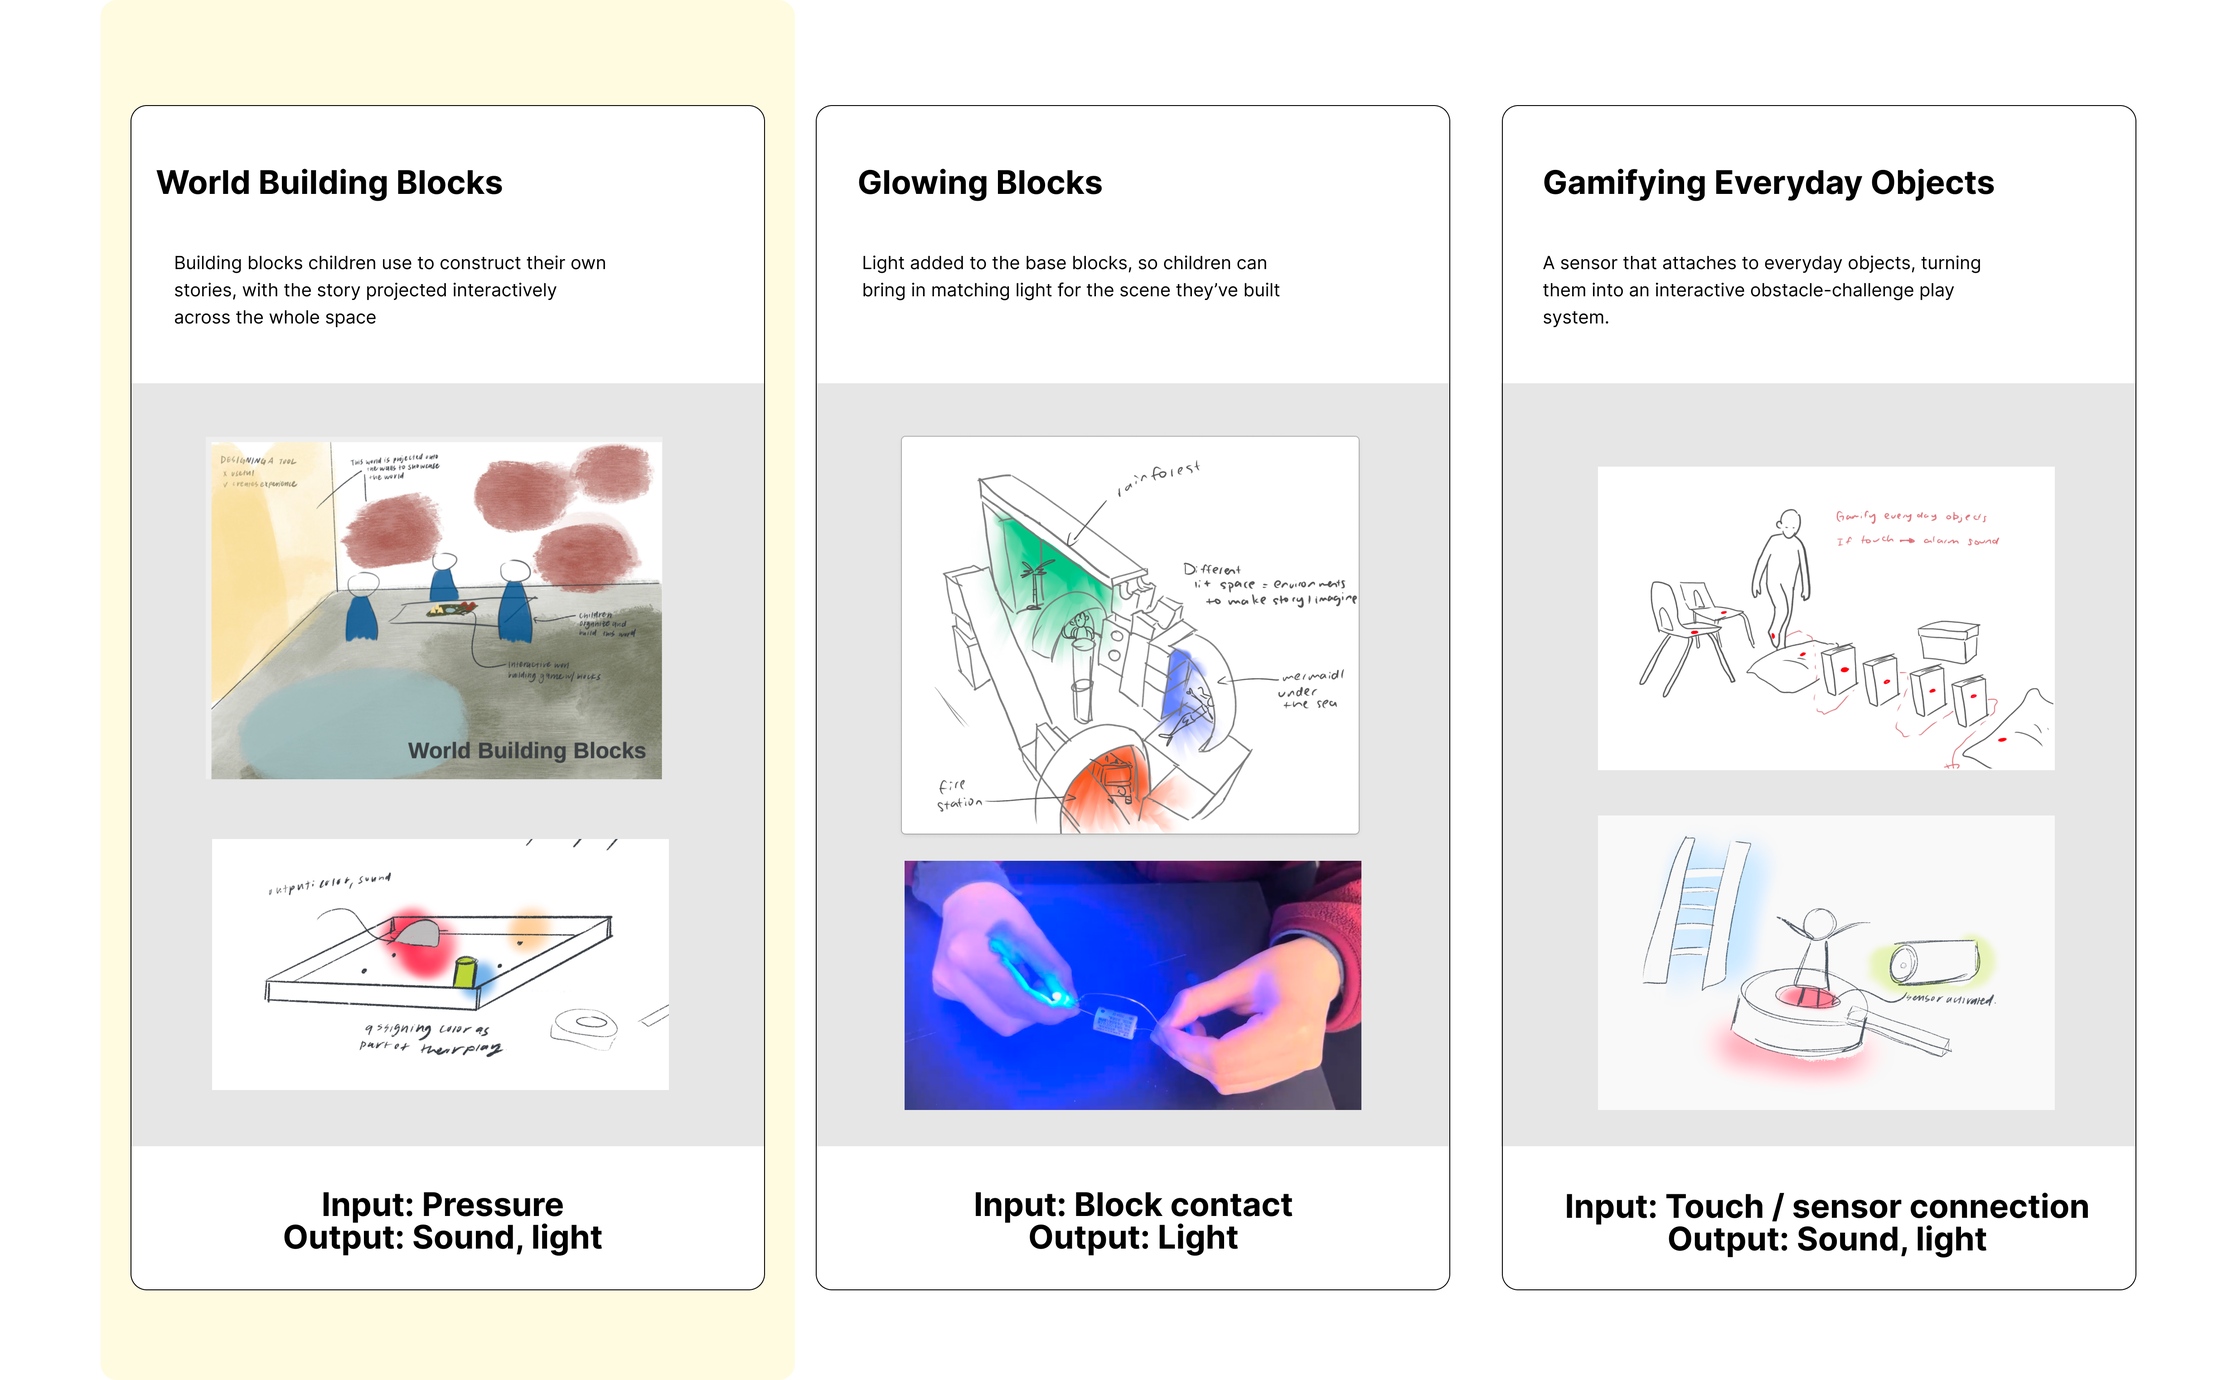
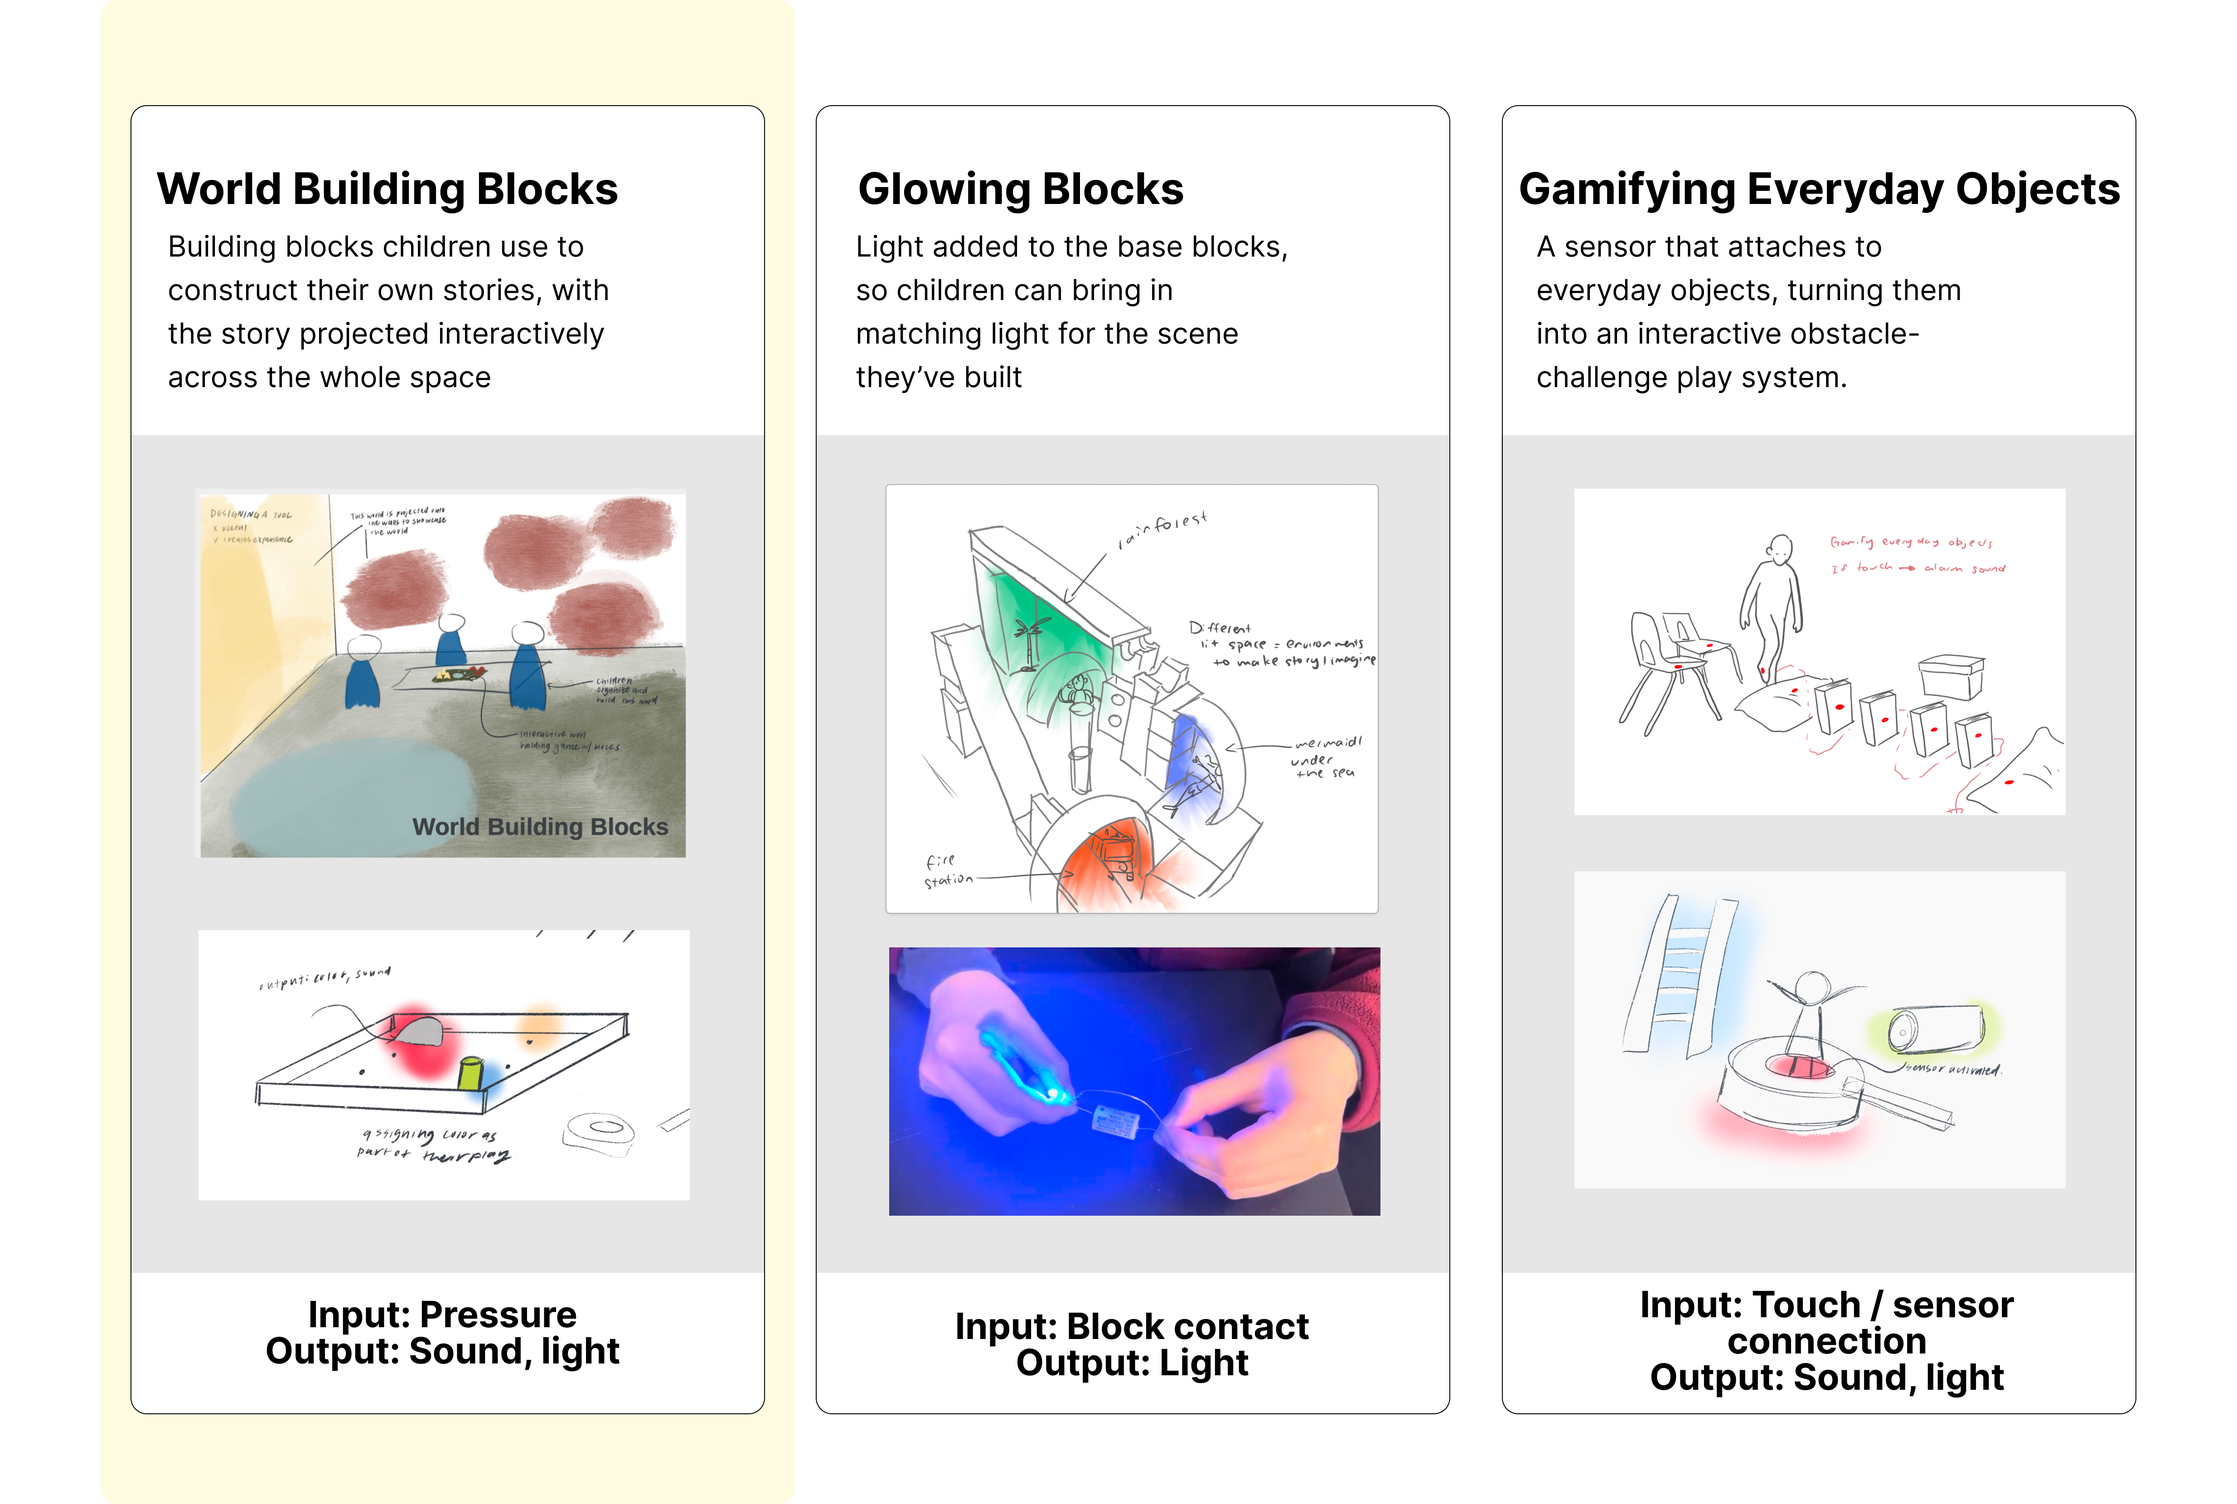
11/19 larger font

Changed region(s): [[0.0624, 0.0624, 0.9672, 0.9668], [0.7176, 0.5926, 0.9048, 0.7797], [0.8424, 0.3743, 0.8736, 0.4054]]

diff --git a/styles.css b/styles.css
@@ -11,6 +11,10 @@
     --header-height: 80px;
 }
 
+html {
+    font-size: clamp(17px, 15px + 0.25vw, 20px);
+}
+
 body {
     margin: 0;
     font-family: 'Schibsted Grotesk', sans-serif;
@@ -173,7 +177,7 @@ body {
 }
 
 .bio-text {
-    font-size: 20px;
+    font-size: 1.25rem;
     line-height: 1.38;
     font-weight: 700;
     margin: 0;
@@ -196,14 +200,14 @@ body {
 .filtered-images-container {
     max-width: 1200px;
     width: 100%;
-    height: 500px;
+    height: 580px;
     margin: 0 auto;
     position: relative;
 }
 
 @media (max-width: 1024px) {
     .filtered-images-container {
-        height: 540px;
+        height: 620px;
         max-width: 100%;
     }
     
@@ -218,7 +222,7 @@ body {
 
 @media (max-width: 768px) {
     .filtered-images-container {
-        height: 480px;
+        height: 560px;
     }
     
     /* 1 Bamboo Lamp, 2 9-5, 3 Timer Speaker, 4 Easy SPAM, 5 Camera Bag, 6 Wonder Mat */
@@ -247,7 +251,7 @@ body {
    Order matches filtered-image-item children in index.html */
 /* Child 1: lamp.jpg - Bamboo Lamp (bamboolamp) */
 .filtered-image-item:nth-child(1) {
-    top: 12%;
+    top: 14%;
     left: 40%;
     width: 14%;
 }
@@ -287,6 +291,55 @@ body {
     width: 20%;
 }
 
+/* Archive covers (children 7–14) */
+.filtered-image-item:nth-child(7) {
+    bottom: 8%;
+    left: 54%;
+    width: 12%;
+}
+
+.filtered-image-item:nth-child(8) {
+    top: 0%;
+    left: 36%;
+    width: 10%;
+}
+
+.filtered-image-item:nth-child(9) {
+    bottom: 48%;
+    left: -4%;
+    width: 10%;
+}
+
+.filtered-image-item:nth-child(10) {
+    top: 30%;
+    right: 13%;
+    width: 11%;
+}
+
+.filtered-image-item:nth-child(11) {
+    bottom: 22%;
+    left: 35%;
+    width: 12%;
+}
+
+.filtered-image-item:nth-child(12) {
+    top: 12%;
+    right: 30%;
+    width: 10%;
+}
+
+.filtered-image-item:nth-child(13) {
+    top: 33%;
+    left: 18%;
+    width: 12%;
+}
+
+.filtered-image-item:nth-child(14) {
+    top: 33%;
+    right: -5%;
+    width: 11%;
+}
+
 .filtered-image-item.visible {
     visibility: visible;
     opacity: 1;
@@ -313,7 +366,7 @@ body {
 /* FILTER SECTION */
 .filter-section {
     grid-column: span 12;
-    padding: 20px var(--spacing-container) 20px var(--spacing-container);
+    padding: 20px var(--spacing-container);
     border-bottom: 1px solid var(--color-border);
     position: relative;
     z-index: 2;
@@ -321,16 +374,18 @@ body {
 }
 
 .filter-sidebar {
-    max-width: 1200px;
+    width: 100%;
+    max-width: min(1280px, 100%);
     margin: 0 auto;
     display: flex;
     flex-direction: row;
-    flex-wrap: wrap;
+    flex-wrap: nowrap;
     align-items: center;
-    gap: 12px;
+    gap: 16px;
 }
 
 .filter-title {
+    flex-shrink: 0;
     font-size: 0.85rem;
     font-weight: 600;
     margin: 0;
@@ -341,12 +396,18 @@ body {
 
 .keyword-list {
     display: flex;
-    flex-wrap: wrap;
+    flex-wrap: nowrap;
     gap: 8px;
-    flex: 1;
+    flex: 1 1 auto;
+    min-width: 0;
+    overflow-x: auto;
+    overflow-y: hidden;
+    scrollbar-width: thin;
+    -webkit-overflow-scrolling: touch;
 }
 
 .keyword-btn {
+    flex-shrink: 0;
     padding: 6px 12px;
     border: 1px solid var(--color-border);
     background: transparent;
@@ -370,6 +431,7 @@ body {
 }
 
 .clear-filter-btn {
+    flex-shrink: 0;
     padding: 6px 12px;
     border: 1px solid var(--color-border);
     background: transparent;
@@ -484,7 +546,7 @@ body {
 }
 
 .project-title {
-    font-size: 48px;
+    font-size: 3rem;
     font-weight: 700;
     margin: 0 0 10px 0;
     line-height: 1.22;
@@ -953,7 +1015,7 @@ body {
 }
 
 .info-title {
-    font-size: 48px;
+    font-size: 3rem;
     font-weight: 700;
     margin: 0 0 60px 0;
     line-height: 1.1;
@@ -1001,7 +1063,7 @@ body {
     }
     
     .bio-text {
-        font-size: 32px;
+        font-size: 2rem;
     }
     
     .filtered-images-section {
@@ -1045,7 +1107,7 @@ body {
     }
     
     .project-title {
-        font-size: 32px;
+        font-size: 2rem;
     }
     
     .project-description {
@@ -1061,7 +1123,7 @@ body {
     }
     
     .info-title {
-        font-size: 32px;
+        font-size: 2rem;
     }
     
     .info-text {
@@ -1075,7 +1137,7 @@ body {
 
 @media (max-width: 480px) {
     .bio-text {
-        font-size: 24px;
+        font-size: 1.5rem;
     }
     
     .logo {
@@ -1094,7 +1156,7 @@ body {
     }
     
     .project-title {
-        font-size: 24px;
+        font-size: 1.5rem;
     }
     
     .project-description {
@@ -1102,7 +1164,7 @@ body {
     }
     
     .info-title {
-        font-size: 24px;
+        font-size: 1.5rem;
     }
     
     .info-text {

diff --git a/archive.html b/archive.html
@@ -42,14 +42,14 @@
                     </div>
                 </div>
 
-                <div class="project-card" data-project="readingapp" aria-label="View Reading App">
+                <div class="project-card" data-project="readingapp" data-keywords="Interactive,Digital experience" aria-label="View Reading App">
                     <div class="image-placeholder">
                         <img src="img/readingapp/appp.png" alt="Reading App">
                     </div>
                     <div class="project-meta">
                         <h3 data-zh="阅读应用">Reading App</h3>
                         <p data-zh="2025年夏季">Summer 2025</p>
-                        <div class="tags" data-zh="UI设计 | 原型设计">UI Design | Prototyping</div>
+                        <div class="tags" data-zh="交互式，数字体验">Interactive, Digital experience</div>
                     </div>
                 </div>
 
@@ -75,25 +75,25 @@
                     </div>
                 </div>
 
-                <div class="project-card" data-project="birdlamp" data-keywords="Material-driven,Fabrication and Craft" aria-label="View Bird Lamp">
+                <div class="project-card" data-project="birdlamp" data-keywords="Material-driven,Fabrication and Craft,Play" aria-label="View Bird Lamp">
                     <div class="image-placeholder">
                         <img src="img/birdlamp/birdlamp.png" alt="Bird Lamp">
                     </div>
                     <div class="project-meta">
                         <h3 data-zh="鸟灯">Bird Lamp</h3>
                         <p data-zh="2024年秋季">Fall 2024</p>
-                        <div class="tags" data-zh="材料驱动，制作与工艺">Material-driven, Fabrication and Craft</div>
+                        <div class="tags" data-zh="材料驱动，制作与工艺，游戏">Material-driven, Fabrication and Craft, Play</div>
                     </div>
                 </div>
 
-                <div class="project-card" data-project="officescene" data-keywords="Play,Interactive,Fabrication and Craft" aria-label="View Office Scene">
+                <div class="project-card" data-project="officescene" data-keywords="Play,Digital experience" aria-label="View Office Scene">
                     <div class="image-placeholder">
                         <img src="img/office/office 4.png" alt="Office Scene">
                     </div>
                     <div class="project-meta">
                         <h3 data-zh="办公场景">Office Scene</h3>
                         <p data-zh="2025年秋季">Fall 2025</p>
-                        <div class="tags" data-zh="游戏，交互式，制作与工艺">Play, Interactive, Fabrication and Craft</div>
+                        <div class="tags" data-zh="游戏，数字体验">Play, Digital experience</div>
                     </div>
                 </div>
 
@@ -108,14 +108,14 @@
                     </div>
                 </div>
 
-                <div class="project-card" data-project="animation" data-keywords="Digital experience" aria-label="View Animation">
+                <div class="project-card" data-project="animation" data-keywords="Fabrication and Craft" aria-label="View Animation">
                     <div class="image-placeholder">
                         <img src="img/animation/animation.png" alt="Animation">
                     </div>
                     <div class="project-meta">
                         <h3 data-zh="动画">Animation</h3>
                         <p data-zh="2023年秋季 – 2023年春季">Fall 2023 – Spring 2023</p>
-                        <div class="tags" data-zh="数字体验">Digital experience</div>
+                        <div class="tags" data-zh="制作与工艺">Fabrication and Craft</div>
                     </div>
                 </div>
             </div>

diff --git a/index.html b/index.html
@@ -54,6 +54,30 @@
                     <div class="filtered-image-item" data-project="mat" data-keywords="Human-Centered,Interactive,Digital experience,Fabrication and Craft,Play">
                         <img src="img/mat/mat.jpg" alt="Wonder Mat">
                     </div>
+                    <div class="filtered-image-item" data-project="headphone" data-keywords="Redesign,Edible?">
+                        <img src="img/headphone/headphone.png" alt="Spagehetti Headphone">
+                    </div>
+                    <div class="filtered-image-item" data-project="readingapp" data-keywords="Interactive,Digital experience">
+                        <img src="img/readingapp/appp.png" alt="Reading App">
+                    </div>
+                    <div class="filtered-image-item" data-project="puzzle" data-keywords="Play,Material-driven,Human-Centered,Interactive,Fabrication and Craft">
+                        <img src="img/puzzle/puzz.png" alt="Textured Animal Puzzle">
+                    </div>
+                    <div class="filtered-image-item" data-project="overthinker" data-keywords="Play,Interactive,Digital experience">
+                        <img src="img/overthinker/ov.png" alt="Overthinker Simulation Game">
+                    </div>
+                    <div class="filtered-image-item" data-project="birdlamp" data-keywords="Material-driven,Fabrication and Craft,Play">
+                        <img src="img/birdlamp/birdlamp.png" alt="Bird Lamp">
+                    </div>
+                    <div class="filtered-image-item" data-project="officescene" data-keywords="Play,Digital experience">
+                        <img src="img/office/office 4.png" alt="Office Scene">
+                    </div>
+                    <div class="filtered-image-item" data-project="builtworks" data-keywords="Material-driven,Fabrication and Craft">
+                        <img src="img/build/build1.png" alt="Built Works">
+                    </div>
+                    <div class="filtered-image-item" data-project="animation" data-keywords="Fabrication and Craft">
+                        <img src="img/animation/animation.png" alt="Animation">
+                    </div>
                 </div>
             </section>
 

diff --git a/projects/readingapp.html b/projects/readingapp.html
@@ -31,7 +31,7 @@
             <div class="project-content">
                 <h2 class="project-title" data-zh="阅读应用">Reading App</h2>
                 <p class="project-year" data-zh="2025年夏季">Summer 2025</p>
-                <div class="project-tags" data-zh="UI设计 | 原型设计">UI Design | Prototyping</div>
+                <div class="project-tags" data-zh="交互式，数字体验">Interactive, Digital experience</div>
                 <div class="project-description">
                     <p><strong data-zh="挑战：">Challenge:</strong><br>
                     <span data-zh="重新设计一个现有的儿童图书平台（Hansen Books），该平台具有视觉平淡、过度白色的界面，难以导航。尽管该应用程序提供了有价值的课程包，教父母如何与孩子一起阅读故事，但这些功能展示不佳，容易被忽视。">Redesign an existing children's book platform(Hansen Books) with a visually bland, overly white interface that was difficult to navigate. Although the app offered valuable lesson bundles teaching parents how to read stories with their children, these features were poorly surfaced and easily overlooked.</span></p>

diff --git a/projects/mat.html b/projects/mat.html
@@ -82,7 +82,9 @@
                         </div>
                     </div>
                     <div style="height: 24px;"></div>
-                    <img src="../img/mat/mat5.png" alt="Wonder Mat">
+                    <div class="mat-larger-wrap">
+                        <img src="../img/mat/mat5.png" alt="Wonder Mat" class="mat-larger-img">
+                    </div>
                     <div style="height: 24px;"></div>
                     <h3 class="project-image-section-title section-title-top-half" data-zh="<span class='section-title-number'>4.</span><span class='section-title-text'>最终制作</span>"><span class="section-title-number">4.</span><span class="section-title-text">Final Production</span></h3>
                     <div style="height: 20px;"></div>

diff --git a/projects/birdlamp.html b/projects/birdlamp.html
@@ -31,7 +31,7 @@
             <div class="project-content">
                 <h2 class="project-title" data-zh="鸟灯">Bird Lamp</h2>
                 <p class="project-year" data-zh="2024年秋季">Fall 2024</p>
-                <div class="project-tags" data-zh="材料驱动，制作与工艺">Material-driven, Fabrication and Craft</div>
+                <div class="project-tags" data-zh="材料驱动，制作与工艺，游戏">Material-driven, Fabrication and Craft, Play</div>
                 
                 <div class="project-image">
                     <img src="../img/birdlamp/birdlamp.png" alt="Bird Lamp">

diff --git a/projects/officescene.html b/projects/officescene.html
@@ -31,7 +31,7 @@
             <div class="project-content">
                 <h2 class="project-title" data-zh="办公场景">Office Scene</h2>
                 <p class="project-year" data-zh="2025年秋季">Fall 2025</p>
-                <div class="project-tags" data-zh="游戏，交互式，制作与工艺">Play, Interactive, Fabrication and Craft</div>
+                <div class="project-tags" data-zh="游戏，数字体验">Play, Digital experience</div>
                 
                 <div class="project-image">
                     <img src="../img/office/office 4.png" alt="Office Scene">

diff --git a/projects/animation.html b/projects/animation.html
@@ -31,7 +31,7 @@
             <div class="project-content">
                 <h2 class="project-title" data-zh="动画">Animation</h2>
                 <p class="project-year" data-zh="2023年秋季 – 2023年春季">Fall 2023 – Spring 2023</p>
-                <div class="project-tags" data-zh="数字体验">Digital experience</div>
+                <div class="project-tags" data-zh="制作与工艺">Fabrication and Craft</div>
                 
                 <div class="project-image">
                     <img src="../img/animation/animation.png" alt="Animation">
